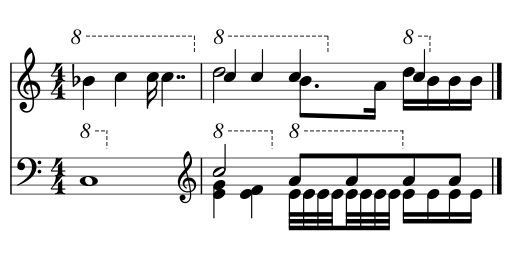
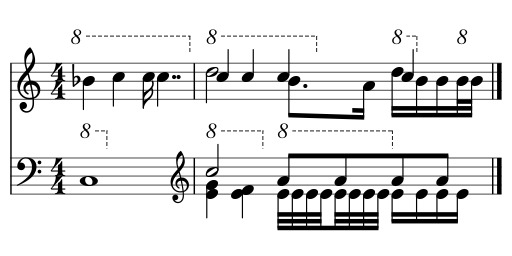
fix #37021: minimum line length can overlap next note
Former-commit-id: 2b73e451f85a9b12610bacce031348dc045fb09f

diff --git a/libmscore/line.cpp b/libmscore/line.cpp
@@ -490,7 +490,7 @@ QPointF SLine::linePos(GripLine grip, System** sys) const
                         cr = static_cast<ChordRest*>(endElement());
                         if (type() == Element::Type::OTTAVA) {
                               if (cr && cr->durationType() == TDuration::DurationType::V_MEASURE) {
-                                    x = cr->x() + cr->width();
+                                    x = cr->x() + cr->width() + sp;
                                     }
                               else if (cr) {
                                     // lay out just past right edge of all notes for this segment on this staff
@@ -522,7 +522,7 @@ QPointF SLine::linePos(GripLine grip, System** sys) const
                                           ns = ns->next();
                                           }
                                     if (crFound) {
-                                          qreal nextNoteDistance = ns->x() - s->x();
+                                          qreal nextNoteDistance = ns->x() - s->x() + lineWidth().val() * sp;
                                           if (x > nextNoteDistance)
                                                 x = qMax(width, nextNoteDistance);
                                           }
@@ -733,8 +733,10 @@ void SLine::layout()
                   // single segment
                   seg->setSpannerSegmentType(SpannerSegmentType::SINGLE);
                   qreal len = p2.x() - p1.x();
-                  if (anchor() == Anchor::SEGMENT && type() != Element::Type::PEDAL)
-                        len = qMax(3 * spatium(), len);
+                  // enforcing a minimum length would be possible but inadvisable
+                  // the line length calculations are tuned well enough that this should not be needed
+                  //if (anchor() == Anchor::SEGMENT && type() != Element::Type::PEDAL)
+                  //      len = qMax(1.0 * spatium(), len);
                   seg->setPos(p1);
                   seg->setPos2(QPointF(len, p2.y() - p1.y()));
                   }
@@ -763,8 +765,10 @@ void SLine::layout()
                         Element* e = mseg ? mseg->element(staffIdx() * VOICES) : nullptr;
                         if (e)
                               offset = e->width();
-                        if (type() != Element::Type::PEDAL)
-                              minLen = 3.0 * spatium();
+                        // enforcing a minimum length would be possible but inadvisable
+                        // the line length calculations are tuned well enough that this should not be needed
+                        //if (type() != Element::Type::PEDAL)
+                        //      minLen = 1.0 * spatium();
                         }
                   qreal x1 = (mseg ? mseg->pos().x() : 0) + m->pos().x() + offset;
                   qreal len = qMax(minLen, p2.x() - x1);
